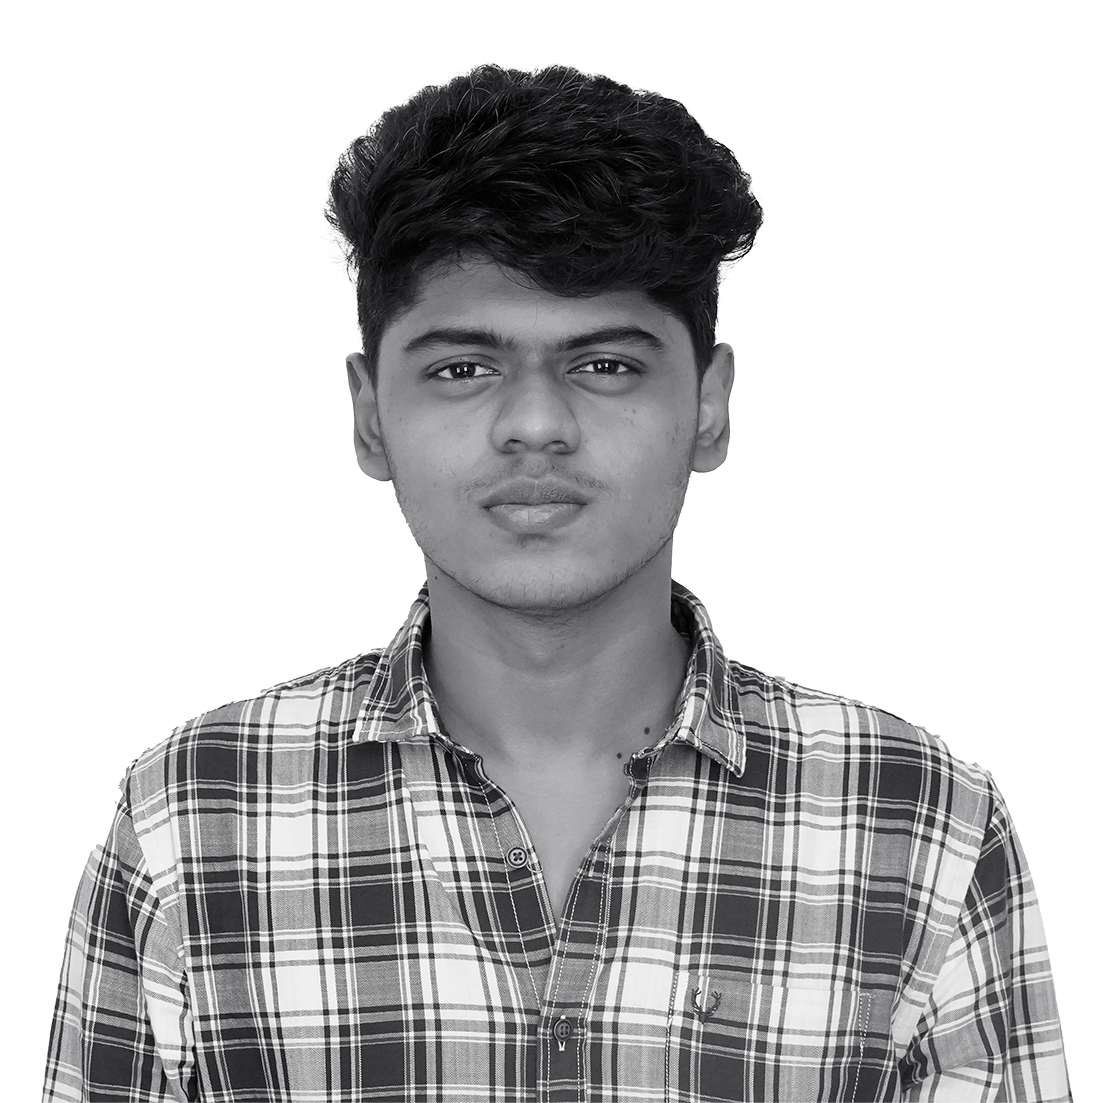
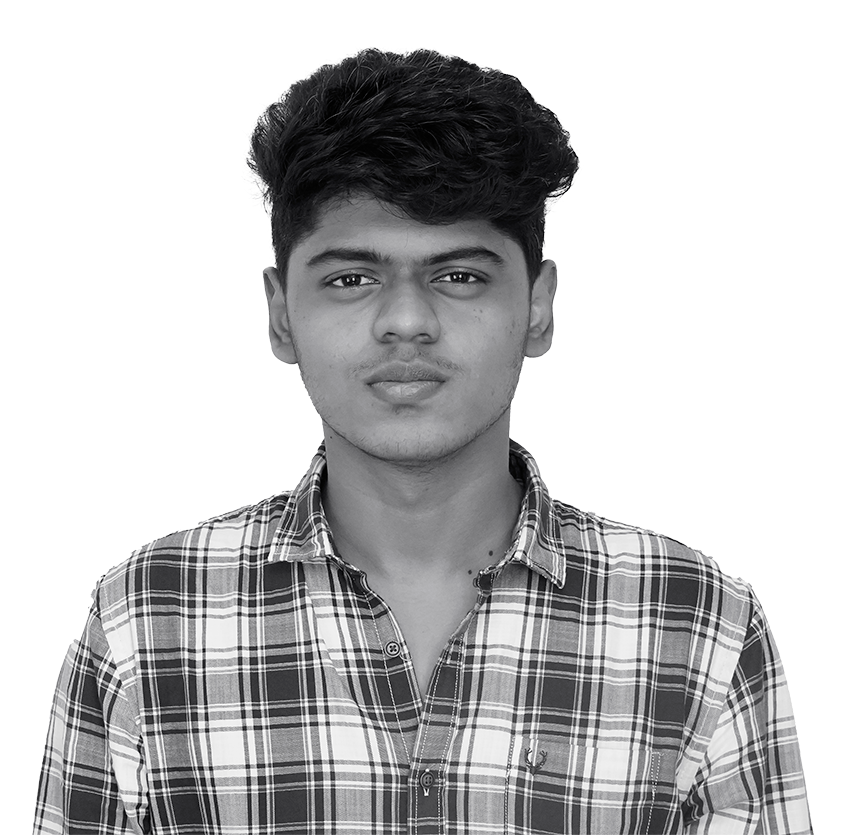
change propic link

diff --git a/src/components/Apps/About.jsx b/src/components/Apps/About.jsx
@@ -7,7 +7,7 @@ const About = ({ isMaximized }) => {
     <div className=" flex flex-col gap-[35px] px-[70px] py-[30px] h-full overflow-y-auto">
       <div className={`flex gap-10 justify-start`}>
         <img
-          src="https://firebasestorage.googleapis.com/v0/b/portfolio-assets-01.appspot.com/o/profilePic.png?alt=media&token=35428e3a-2149-4d35-a26c-c3f5741d7dab"
+          src="https://firebasestorage.googleapis.com/v0/b/portfolio-assets-01.appspot.com/o/profilePic.png?alt=media&token=547e273e-e882-4af5-a18c-4f7204c4a925"
           alt="profilePhoto"
           className=" border-s-[2px] border-s-[#fafafa] border-t-[2px] border-t-[#fafafa] border-black border-[1px] w-[220px]"
         />
